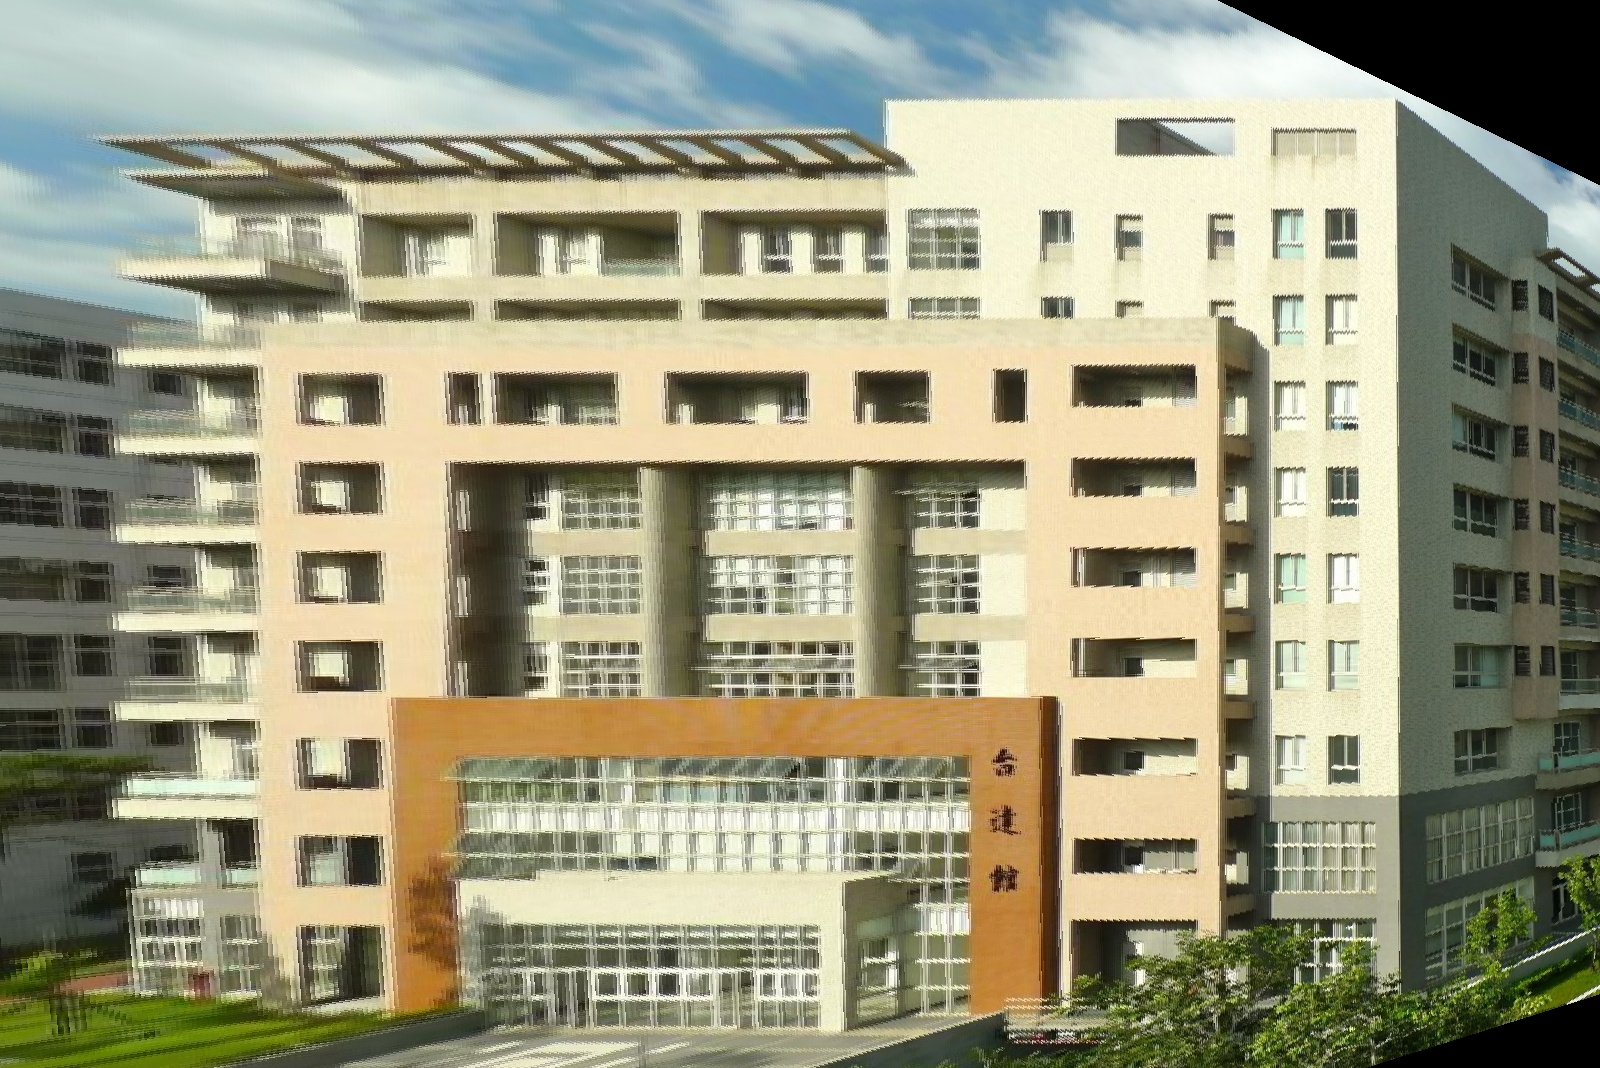
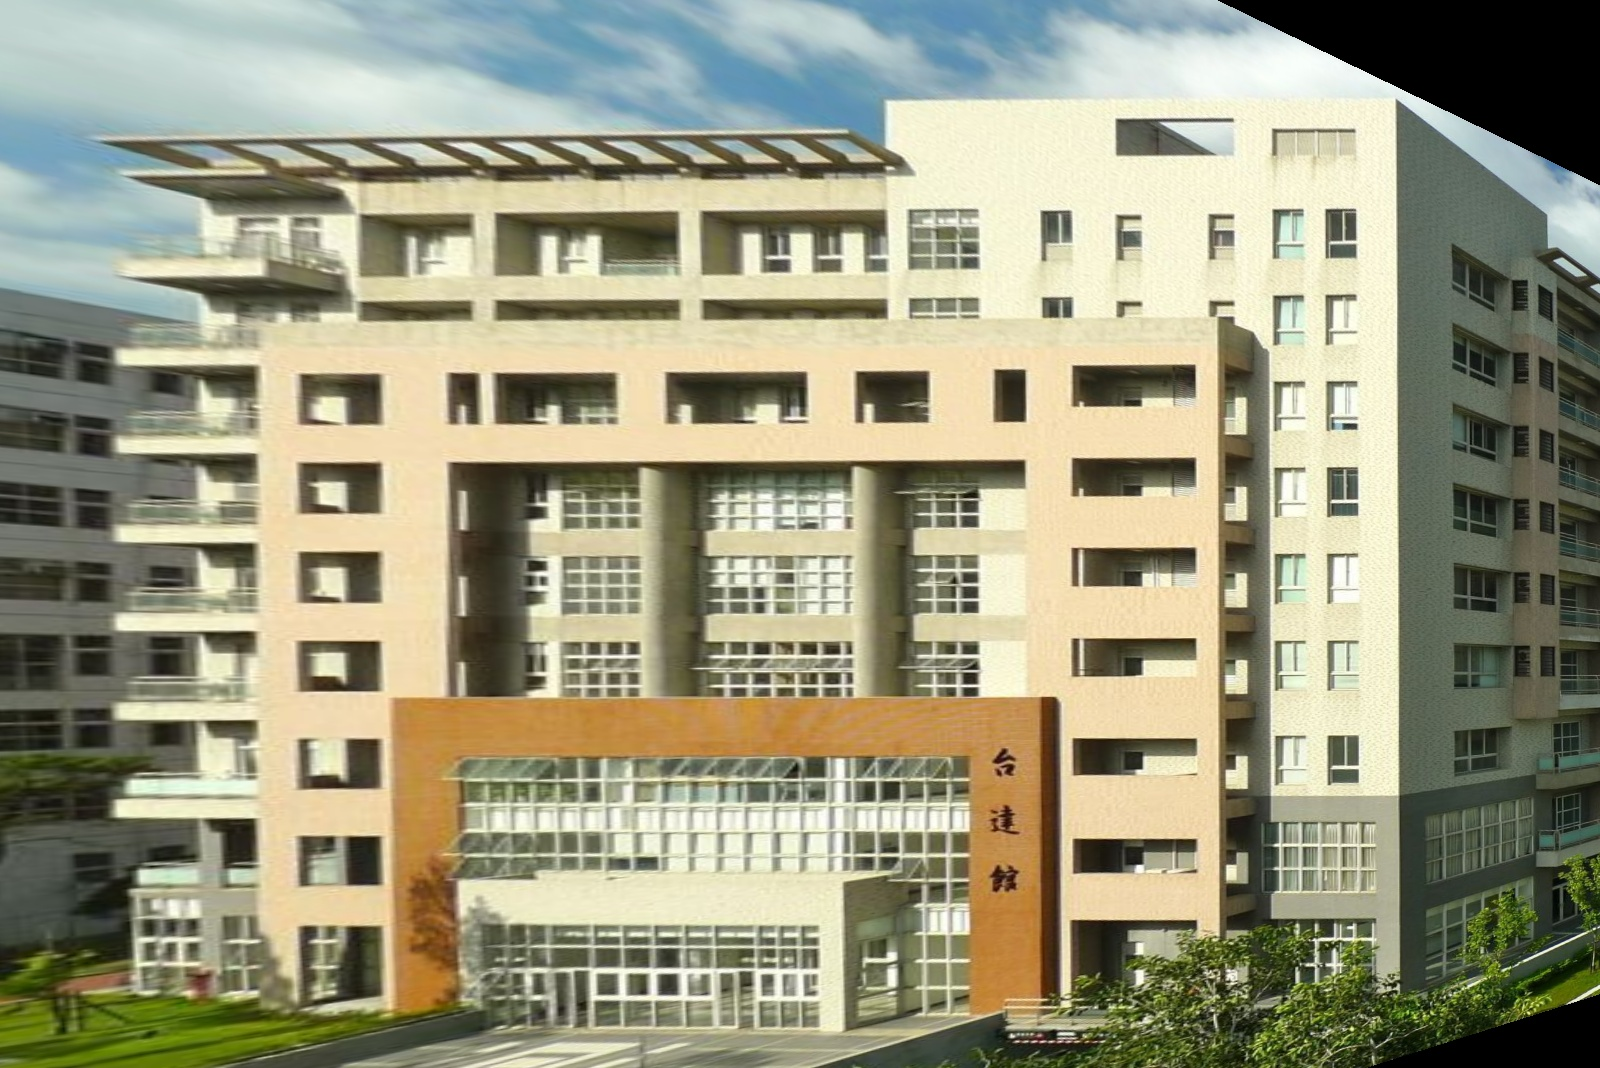
[FIX] bilinear interpolation coefficient

diff --git a/2/HW2-2.py b/2/HW2-2.py
@@ -45,8 +45,8 @@ def bilinear_pixel_color(src, pixels, dw):
     c = src[pixels[:, 0] + 1, pixels[:, 1]]
     d = src[pixels[:, 0] + 1, pixels[:, 1] + 1]
 
-    return ((a * dw[:, 1:2] + b * (1 - dw[:, 1:2])) * dw[:, 0:1] +
-            (c * dw[:, 1:2] + d * (1 - dw[:, 1:2])) * (1 - dw[:, 0:1]))
+    return ((a * (1 - dw[:, 1:2]) + b * dw[:, 1:2]) * (1 - dw[:, 0:1]) +
+            (c * (1 - dw[:, 1:2]) + d * dw[:, 1:2]) * (dw[:, 0:1]))
 
 
 def draw_selected_polygon(image, polygon):
